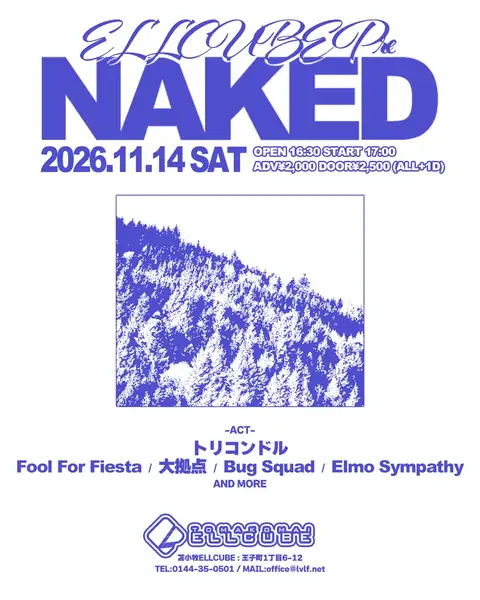
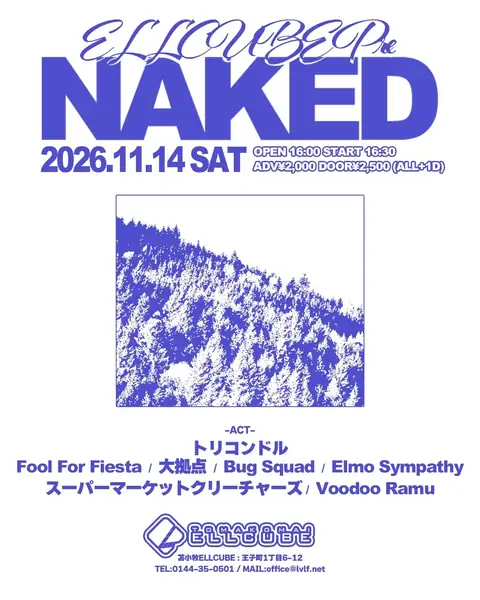
11/14 NAKED のフライヤーと出演・時間を更新

diff --git a/assets/api-cache.js b/assets/api-cache.js
@@ -1,1 +1,1 @@
-(()=>{const API=/script\.google\.com\/macros\/s\/[^/]+\/exec/;const raw=window.fetch&&window.fetch.bind(window);if(!raw||!window.localStorage)return;const read=k=>{try{return JSON.parse(localStorage.getItem(k)||"null")}catch(e){return null}};const SEED={"https://script.google.com/macros/s/AKfycby08szHstuT7JYxyRSol6xAzd7VcwcffgbQjrkmHVElP4BqDJo8y1i4xDpv8t6qFYk5/exec":'{"ok": true, "shows": [{"id": "20261103-ellcube", "date": "2026-11-03", "title": "ELLCUBE Pre. \\"祝38 大野生誕祭\\"", "venue": "苫小牧ELLCUBE", "performers": "ButtonDawn ／ Largenal Nature ／ 吉澤吉澤 ／ 黄金中央", "open": "17:30", "start": "18:00", "advance": "3,000円", "door": "3,500円", "drink": "別途1ドリンク", "note": "当日は受付で『Button Dawnの予約』とお伝えください。", "status": "受付中", "canBook": true}, {"id": "20261114-ellcube", "date": "2026-11-14", "title": "ELLCUBE Pre. \\"NAKED\\"", "venue": "苫小牧ELLCUBE", "performers": "トリコンドル ／ Fool For Fiesta ／ 大拠点 ／ Bug Squad ／ Elmo Sympathy", "open": "16:30", "start": "17:00", "advance": "2,000円", "door": "2,500円", "drink": "別途1ドリンク", "note": "当日は受付で『トリコンドルの予約』とお伝えください。ELLCUBEのメール予約（office@lvlf.net）でも取り扱いがあります。", "status": "受付中", "canBook": true}]}',"https://script.google.com/macros/s/AKfycby08szHstuT7JYxyRSol6xAzd7VcwcffgbQjrkmHVElP4BqDJo8y1i4xDpv8t6qFYk5/exec?action=shows":'{"ok": true, "shows": [{"id": "20261103-ellcube", "date": "2026-11-03", "title": "ELLCUBE Pre. \\"祝38 大野生誕祭\\"", "venue": "苫小牧ELLCUBE", "performers": "ButtonDawn ／ Largenal Nature ／ 吉澤吉澤 ／ 黄金中央", "open": "17:30", "start": "18:00", "advance": "3,000円", "door": "3,500円", "drink": "別途1ドリンク", "note": "当日は受付で『Button Dawnの予約』とお伝えください。", "status": "受付中", "canBook": true}, {"id": "20261114-ellcube", "date": "2026-11-14", "title": "ELLCUBE Pre. \\"NAKED\\"", "venue": "苫小牧ELLCUBE", "performers": "トリコンドル ／ Fool For Fiesta ／ 大拠点 ／ Bug Squad ／ Elmo Sympathy", "open": "16:30", "start": "17:00", "advance": "2,000円", "door": "2,500円", "drink": "別途1ドリンク", "note": "当日は受付で『トリコンドルの予約』とお伝えください。ELLCUBEのメール予約（office@lvlf.net）でも取り扱いがあります。", "status": "受付中", "canBook": true}]}',"https://script.google.com/macros/s/AKfycby08szHstuT7JYxyRSol6xAzd7VcwcffgbQjrkmHVElP4BqDJo8y1i4xDpv8t6qFYk5/exec?action=news":'{"ok": true, "news": [{"id": "c4838120-2459-4426-bfe1-22a1b4574339", "date": "2026-10-05", "title": "公式サイトを公開しました", "body": "くめゆうすけの公式サイトを公開しました。プロフィール、PAM・トリコンドルのリリース、試聴、ライブの取り置き予約、お仕事のご依頼をまとめています。", "link": "", "published": "公開"}, {"id": "0198a5a7-5552-4966-af09-fb8eb11516e0", "date": "2026-10-05", "title": "BGMと自作曲のサブスクを始めました", "body": "BGMと自作の曲を月額で聴き放題・ダウンロードできる「くめゆうすけ 音楽ライブラリ」を始めました。プランは月額¥500から。動画・配信・ゲームで使える商用プランもあります。", "link": "https://kumeyusuke.net/library.html#plans", "published": "公開"}]}'};const normalize=body=>{try{const data=JSON.parse(body);for(const item of data.news||[]){try{if(/(^|\.)payhip\.com$/i.test(new URL(item.link).hostname))item.link="https://kumeyusuke.net/subscribe.html"}catch{}}return JSON.stringify(data)}catch{return body}};const json=b=>new Response(normalize(b),{status:200,headers:{"Content-Type":"application/json"}});window.fetch=function(input,init){const url=typeof input==="string"?input:input&&input.url||"";const isGet=!init||!init.method||String(init.method).toUpperCase()==="GET";if(!isGet||!API.test(url)||/action=(result|adminBridge)/.test(url))return raw(input,init);const key="v5api:"+url.split("#")[0];const net=raw(input,init).then(r=>{if(!r.ok)throw new Error("HTTP "+r.status);return r.text().then(t=>{const body=normalize(t);try{JSON.parse(body);localStorage.setItem(key,JSON.stringify({t:Date.now(),b:body}))}catch{}return json(body)})});const saved=read(key);const c=saved&&Date.now()-saved.t<=7*864e5?saved:SEED[url.split("#")[0]]?{b:SEED[url.split("#")[0]]}:null;if(!c)return net;const slow=new Promise(res=>setTimeout(()=>res("slow"),2500));return Promise.race([net.then(r=>r,()=>"fail"),slow]).then(w=>w==="slow"||w==="fail"?json(c.b):w)}})();
+(()=>{const API=/script\.google\.com\/macros\/s\/[^/]+\/exec/;const raw=window.fetch&&window.fetch.bind(window);if(!raw||!window.localStorage)return;const read=k=>{try{return JSON.parse(localStorage.getItem(k)||"null")}catch(e){return null}};const SEED={"https://script.google.com/macros/s/AKfycby08szHstuT7JYxyRSol6xAzd7VcwcffgbQjrkmHVElP4BqDJo8y1i4xDpv8t6qFYk5/exec":'{"ok": true, "shows": [{"id": "20261103-ellcube", "date": "2026-11-03", "title": "ELLCUBE Pre. \\"祝38 大野生誕祭\\"", "venue": "苫小牧ELLCUBE", "performers": "ButtonDawn ／ Largenal Nature ／ 吉澤吉澤 ／ 黄金中央", "open": "17:30", "start": "18:00", "advance": "3,000円", "door": "3,500円", "drink": "別途1ドリンク", "note": "当日は受付で『Button Dawnの予約』とお伝えください。", "status": "受付中", "canBook": true}, {"id": "20261114-ellcube", "date": "2026-11-14", "title": "ELLCUBE Pre. \\"NAKED\\"", "venue": "苫小牧ELLCUBE", "performers": "トリコンドル ／ Fool For Fiesta ／ 大拠点 ／ Bug Squad ／ Elmo Sympathy ／ スーパーマーケットクリーチャーズ ／ Voodoo Ramu", "open": "16:00", "start": "16:30", "advance": "2,000円", "door": "2,500円", "drink": "別途1ドリンク", "note": "当日は受付で『トリコンドルの予約』とお伝えください。ELLCUBEのメール予約（office@lvlf.net）でも取り扱いがあります。", "status": "受付中", "canBook": true}]}',"https://script.google.com/macros/s/AKfycby08szHstuT7JYxyRSol6xAzd7VcwcffgbQjrkmHVElP4BqDJo8y1i4xDpv8t6qFYk5/exec?action=shows":'{"ok": true, "shows": [{"id": "20261103-ellcube", "date": "2026-11-03", "title": "ELLCUBE Pre. \\"祝38 大野生誕祭\\"", "venue": "苫小牧ELLCUBE", "performers": "ButtonDawn ／ Largenal Nature ／ 吉澤吉澤 ／ 黄金中央", "open": "17:30", "start": "18:00", "advance": "3,000円", "door": "3,500円", "drink": "別途1ドリンク", "note": "当日は受付で『Button Dawnの予約』とお伝えください。", "status": "受付中", "canBook": true}, {"id": "20261114-ellcube", "date": "2026-11-14", "title": "ELLCUBE Pre. \\"NAKED\\"", "venue": "苫小牧ELLCUBE", "performers": "トリコンドル ／ Fool For Fiesta ／ 大拠点 ／ Bug Squad ／ Elmo Sympathy ／ スーパーマーケットクリーチャーズ ／ Voodoo Ramu", "open": "16:00", "start": "16:30", "advance": "2,000円", "door": "2,500円", "drink": "別途1ドリンク", "note": "当日は受付で『トリコンドルの予約』とお伝えください。ELLCUBEのメール予約（office@lvlf.net）でも取り扱いがあります。", "status": "受付中", "canBook": true}]}',"https://script.google.com/macros/s/AKfycby08szHstuT7JYxyRSol6xAzd7VcwcffgbQjrkmHVElP4BqDJo8y1i4xDpv8t6qFYk5/exec?action=news":'{"ok": true, "news": [{"id": "c4838120-2459-4426-bfe1-22a1b4574339", "date": "2026-10-05", "title": "公式サイトを公開しました", "body": "くめゆうすけの公式サイトを公開しました。プロフィール、PAM・トリコンドルのリリース、試聴、ライブの取り置き予約、お仕事のご依頼をまとめています。", "link": "", "published": "公開"}, {"id": "0198a5a7-5552-4966-af09-fb8eb11516e0", "date": "2026-10-05", "title": "BGMと自作曲のサブスクを始めました", "body": "BGMと自作の曲を月額で聴き放題・ダウンロードできる「くめゆうすけ 音楽ライブラリ」を始めました。プランは月額¥500から。動画・配信・ゲームで使える商用プランもあります。", "link": "https://kumeyusuke.net/library.html#plans", "published": "公開"}]}'};const normalize=body=>{try{const data=JSON.parse(body);for(const item of data.news||[]){try{if(/(^|\.)payhip\.com$/i.test(new URL(item.link).hostname))item.link="https://kumeyusuke.net/subscribe.html"}catch{}}return JSON.stringify(data)}catch{return body}};const json=b=>new Response(normalize(b),{status:200,headers:{"Content-Type":"application/json"}});window.fetch=function(input,init){const url=typeof input==="string"?input:input&&input.url||"";const isGet=!init||!init.method||String(init.method).toUpperCase()==="GET";if(!isGet||!API.test(url)||/action=(result|adminBridge)/.test(url))return raw(input,init);const key="v5api:"+url.split("#")[0];const net=raw(input,init).then(r=>{if(!r.ok)throw new Error("HTTP "+r.status);return r.text().then(t=>{const body=normalize(t);try{JSON.parse(body);localStorage.setItem(key,JSON.stringify({t:Date.now(),b:body}))}catch{}return json(body)})});const saved=read(key);const c=saved&&Date.now()-saved.t<=7*864e5?saved:SEED[url.split("#")[0]]?{b:SEED[url.split("#")[0]]}:null;if(!c)return net;const slow=new Promise(res=>setTimeout(()=>res("slow"),2500));return Promise.race([net.then(r=>r,()=>"fail"),slow]).then(w=>w==="slow"||w==="fail"?json(c.b):w)}})();

diff --git a/assets/flyers.js b/assets/flyers.js
@@ -1,1 +1,1 @@
-window.siteFlyers={"20261103-ellcube":[1e3,1415],"20261114-ellcube":[1e3,1250]};
+window.siteFlyers={"20261103-ellcube":[1e3,1415],"20261114-ellcube":[1080,1350]};
